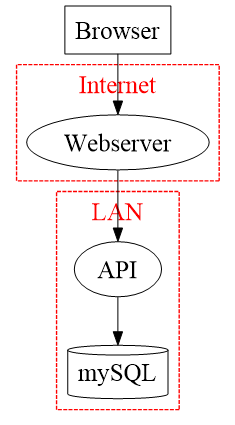
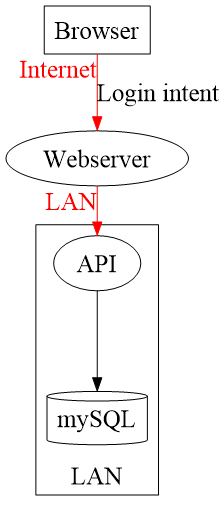
Changed how trust boundary are displayed. They are now red arrows. Clusters are used to group thing together (e.g: LAN)

Changed region(s): [[0.0, 0.0, 0.9688, 0.9788]]

diff --git a/dot-tm.py b/dot-tm.py
@@ -22,7 +22,7 @@ edges = nodes.get('edges')
 stridetable = defaultdict(dict)
 
 #declare boundaries dict
-boundaries = defaultdict(list)
+clusters = defaultdict(list)
 
 #Generate all processes nodes
 for key,value in processes.items():
@@ -31,8 +31,8 @@ for key,value in processes.items():
         if k in "label":
             node =  pydot.Node(v)
             graph.add_node(node)
-        if k in "boundary":
-            boundaries[v].append(item)
+        if k in "cluster":
+            clusters[v].append(item)
   
 #Generate all entities nodes
 for key,value in entities.items():
@@ -41,8 +41,8 @@ for key,value in entities.items():
         if k in "label":
             node =  pydot.Node(v, shape="box")
             graph.add_node(node)
-        if k in "boundary":
-            boundaries[v].append(item)
+        if k in "cluster":
+            clusters[v].append(item)
         
 
 #Generate all datastore nodes
@@ -52,8 +52,8 @@ for key,value in datastore.items():
         if k in "label":
             node =  pydot.Node(v, shape="cylinder")
             graph.add_node(node)
-        if k in "boundary":
-            boundaries[v].append(item)
+        if k in "cluster":
+            clusters[v].append(item)
         
 
 #Generate all edges and export stride analysis
@@ -66,12 +66,19 @@ for key,value in edges.items():
     infodict = {}
     dosdict={}
     elevationdict={}
+    isStride=False
+    crossingboundary = ''
+    label=''
     for k,v in value.items():
         if k in "from":
             edgefrom = v
         if k in "to":
             edgeto = v
+        if k in "label":
+            label = v
         if k in 'stride':
+            isStride = True
+            crossingboundary =  str({key:v[key] for key in ['crossingboundary']}['crossingboundary'])
             spoofingdict = {key:v[key] for key in ['st1', 'sm1', 'st2', 'sm2', 'st3', 'sm3']}
             tamperingdict = {key:v[key] for key in ['tt1', 'tm1', 'tt2', 'tm2','tt3', 'tm3']}
             repudiationdict = {key:v[key] for key in ['rt1', 'rm1', 'rt2', 'rm2','rt3', 'rm3']}
@@ -84,7 +91,10 @@ for key,value in edges.items():
             stridetable[edgefrom+';'+edgeto]['info']=['Information Disclosure',infodict['it1'],infodict['im1'],infodict['it2'],infodict['im2'],infodict['it3'],infodict['im3']]
             stridetable[edgefrom+';'+edgeto]['dos']=['Denial of Service',dosdict['dt1'],dosdict['dm1'],dosdict['dt2'],dosdict['dm2'],dosdict['dt3'],dosdict['dm3']]
             stridetable[edgefrom+';'+edgeto]['elevation']=['Elevation of privilege',elevationdict['et1'],elevationdict['em1'],elevationdict['et2'],elevationdict['em2'],elevationdict['et3'],elevationdict['em3']]
-    graph.add_edge(pydot.Edge(edgefrom, edgeto))
+    if (isStride):
+        graph.add_edge(pydot.Edge(edgefrom, edgeto, taillabel= '<<font color="red">'+crossingboundary+'</font>>', label=label, color='red'))
+    else:
+        graph.add_edge(pydot.Edge(edgefrom, edgeto))
    
 
 # Export STRIDE to csv table
@@ -103,12 +113,9 @@ with open('stride.csv', 'wb') as csvfile:
         writer.writerow('')
         
 
-
-
-# Generate boundaries
-clusters= defaultdict(list)
-for key,values in boundaries.iteritems():
-    cluster = pydot.Cluster(key,label=key, style='dashed', color='red',fontcolor='red')
+# Generate clusters
+for key,values in clusters.iteritems():
+    cluster = pydot.Cluster(key,label=key,labelloc='b')
     for item in values:
         cluster.add_node(pydot.Node(item,label=item))
     graph.add_subgraph(cluster)
